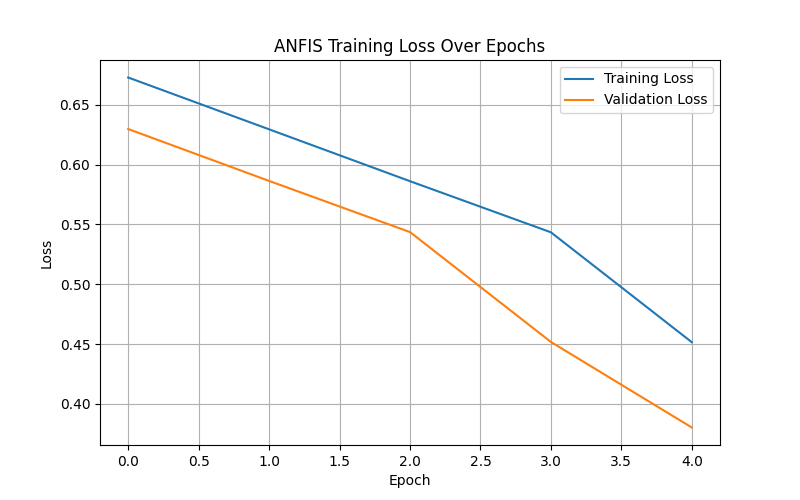
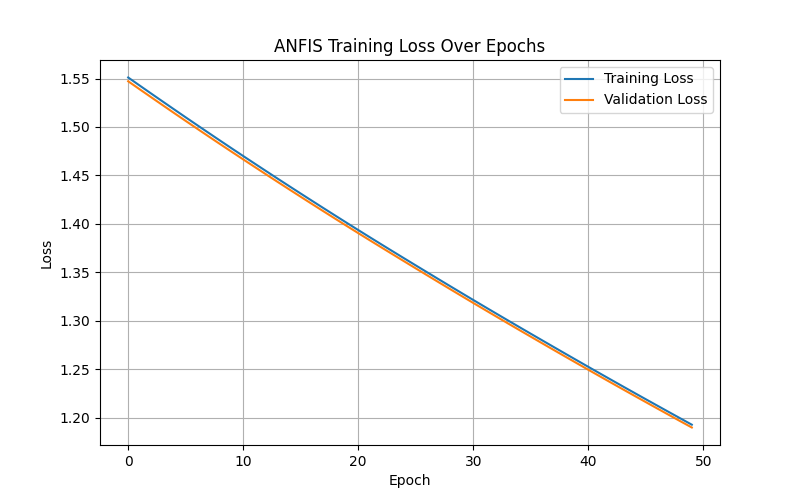
Implement ANFIS

diff --git a/scripts/test.py b/scripts/test.py
@@ -2,7 +2,7 @@ from src.engine import ANFIS
 
 model = ANFIS(
     num_indices=3,
-    num_epochs=5,
+    num_epochs=50,
     learning_rate=0.01,
     membership_functions="triangular",
     optimizer="adam",

diff --git a/src/engine/anfis.py b/src/engine/anfis.py
@@ -257,4 +257,3 @@ class ANFIS:
         plt.grid(True, alpha=0.3)
         plt.tight_layout()
         plt.savefig(self.plots_path / "predictions_vs_true_ratings.png")
-        plt.show()
